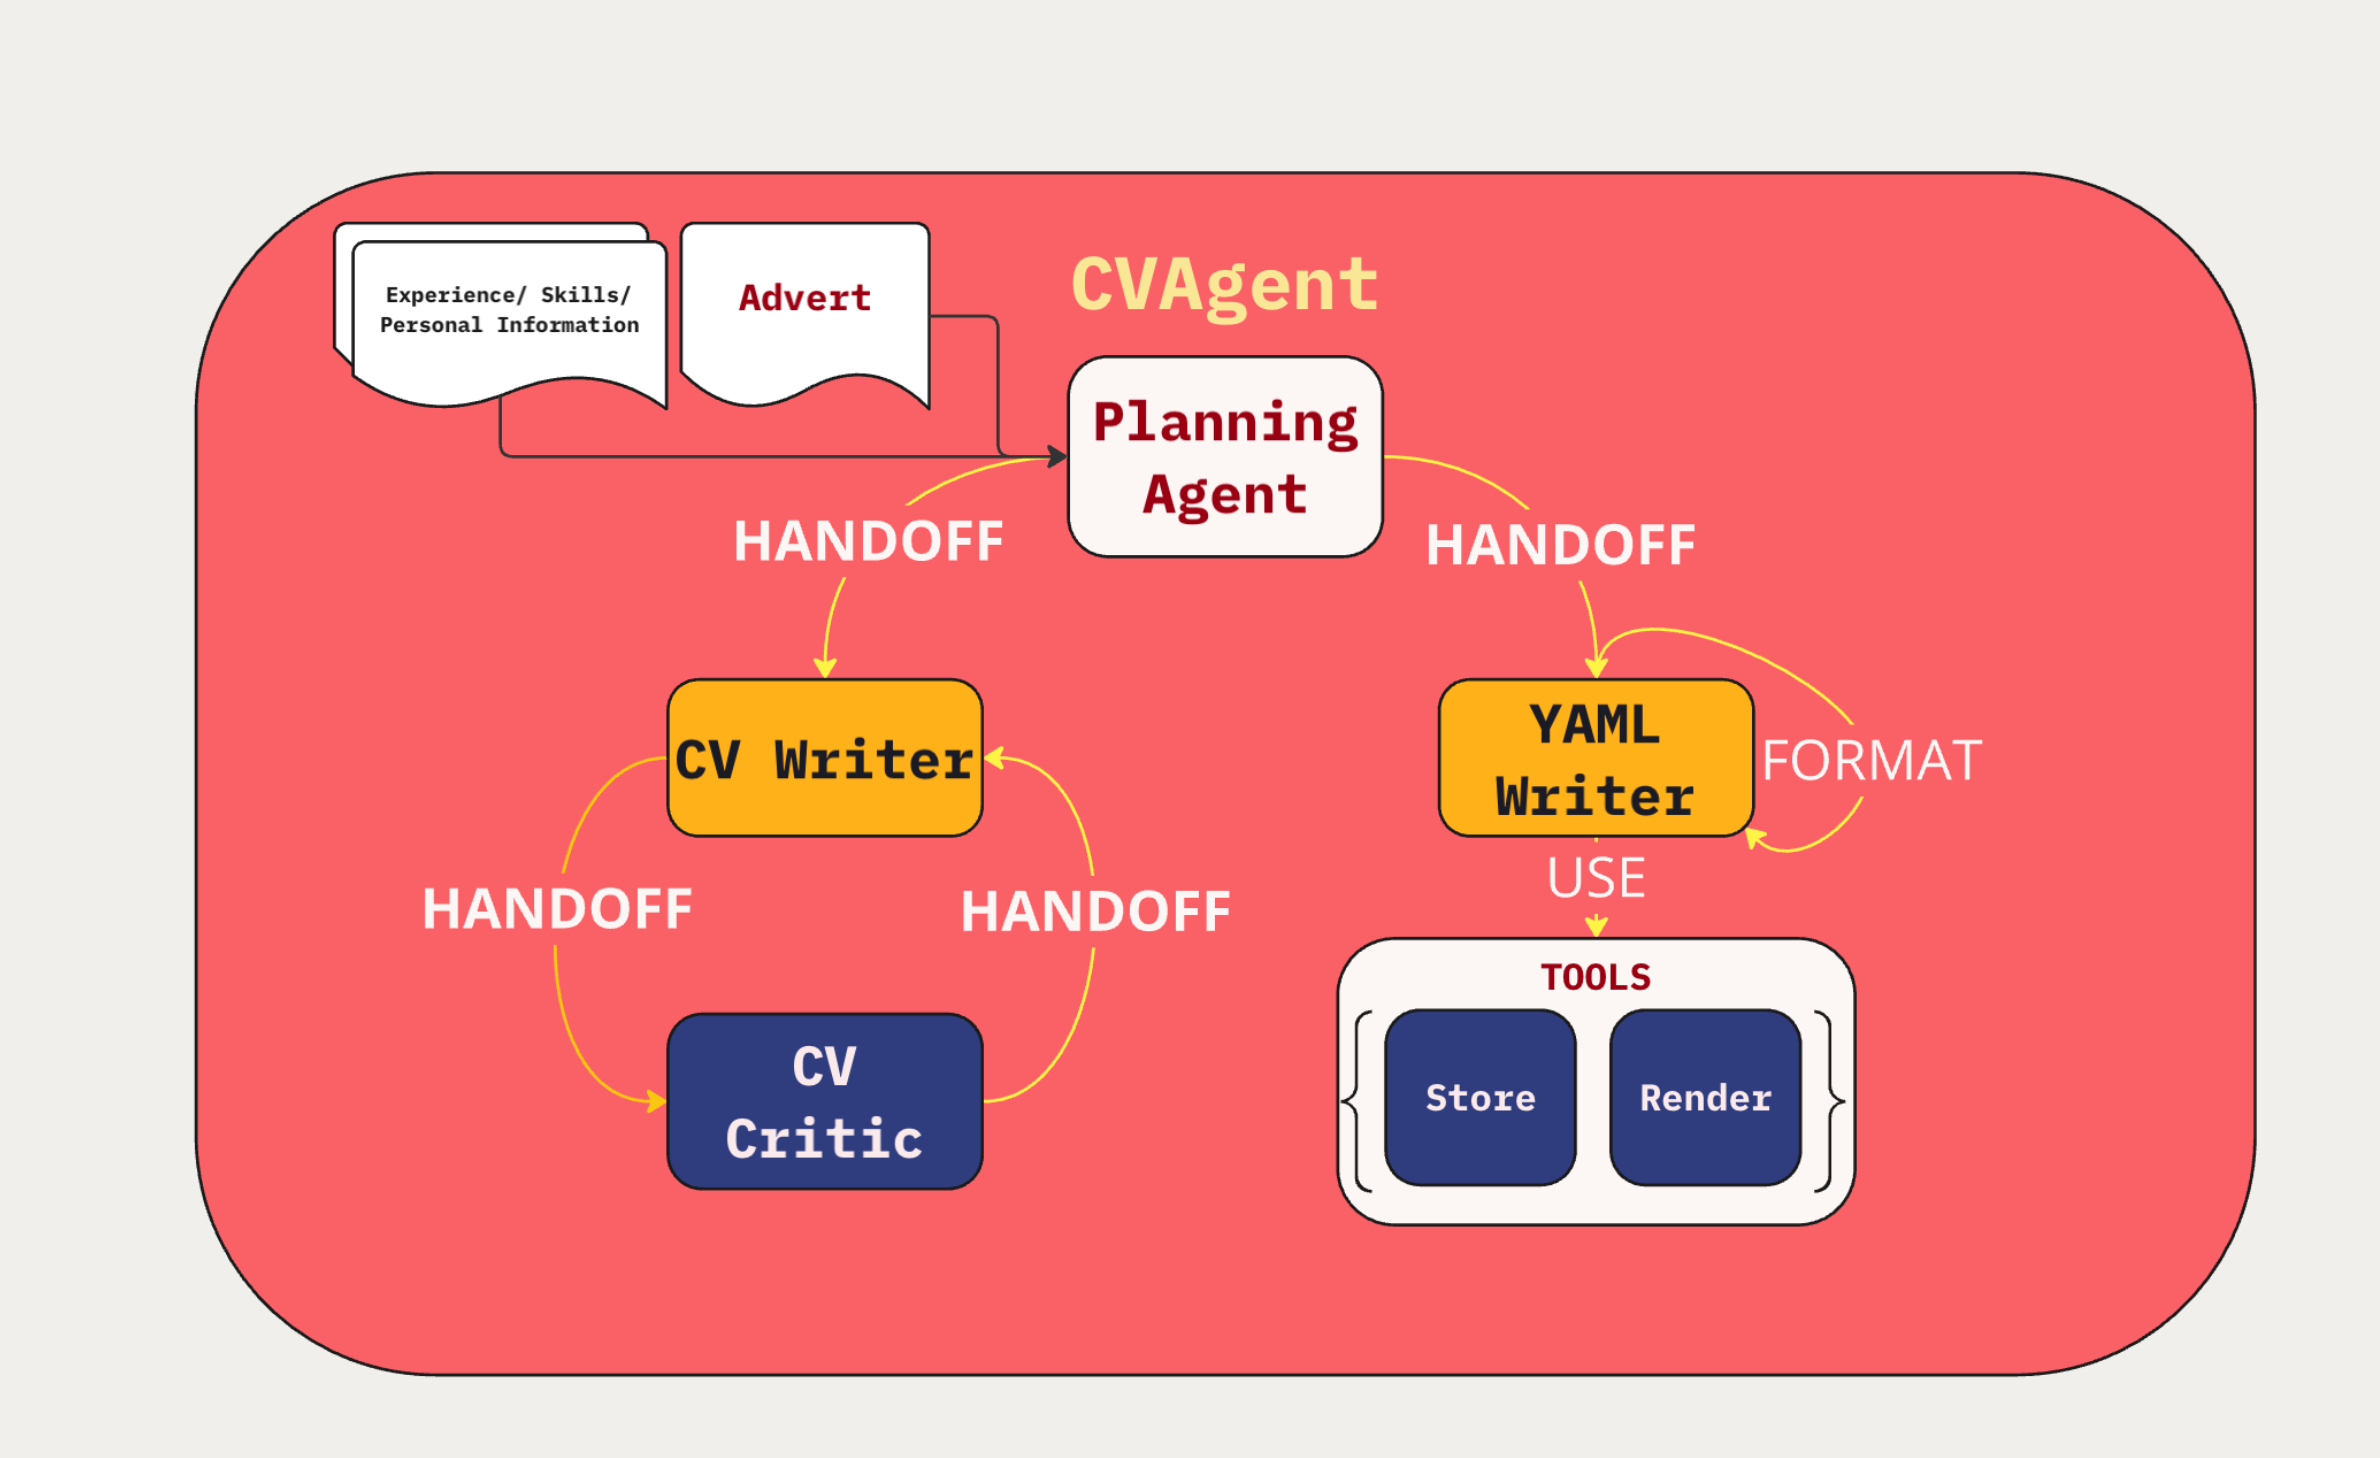
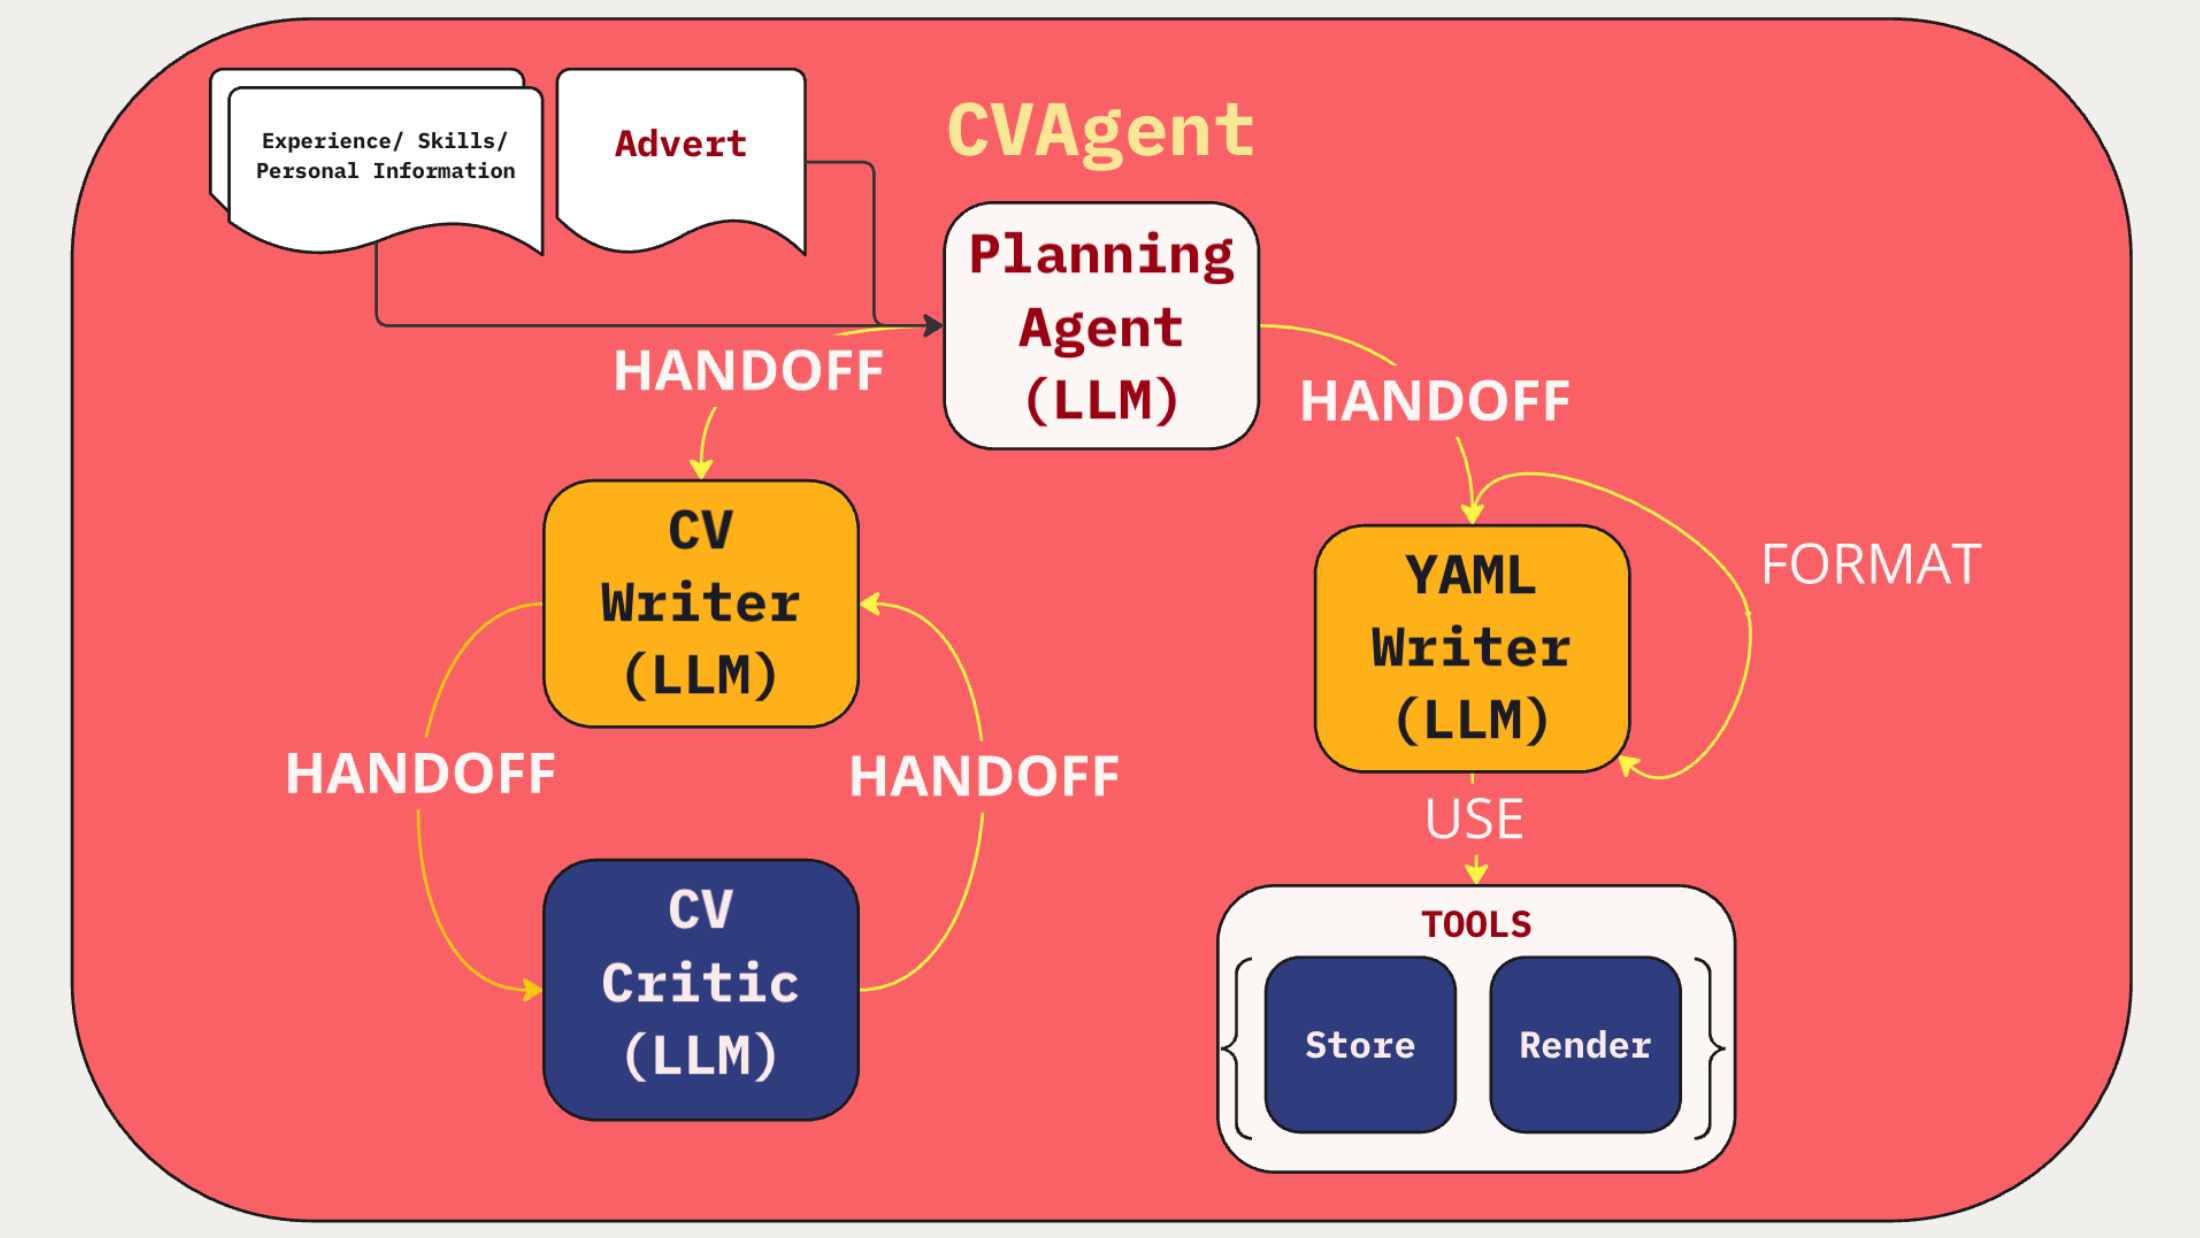
Add Architecture to Readme

diff --git a/README.md b/README.md
@@ -69,6 +69,9 @@ Powered by **Autogen** and the **RenderCV** library, it refines user inputs and 
 If this happens, simply change the `yaml_writer` agent to use the pre-configured `openai_model_4o_client`.
 ---
 
+## Architecture Diagram
+![Architecture Diagram](./CVAgent-architecture.png)
+
 ## Output
 - By default, the generated PDF file is saved in the `render_output` folder (if AI won't change it).
 ![Example_pdf_output](./rendercv_output/John_Doe_CV_1.png)
